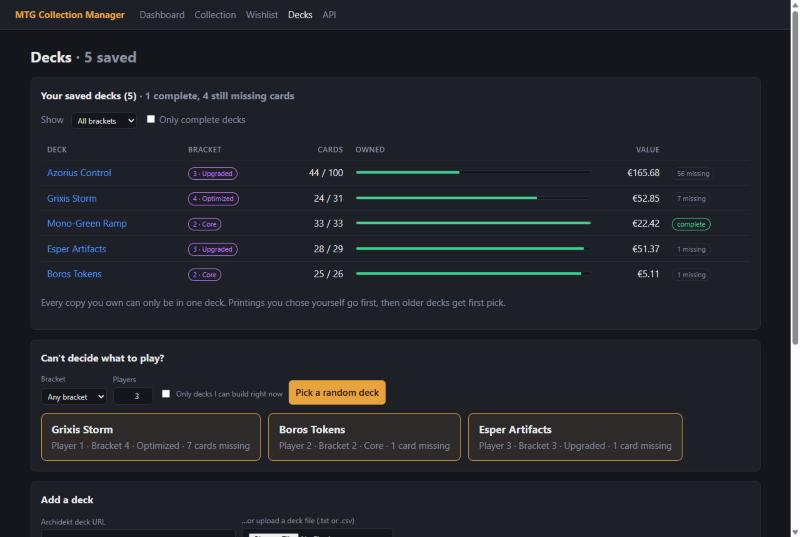
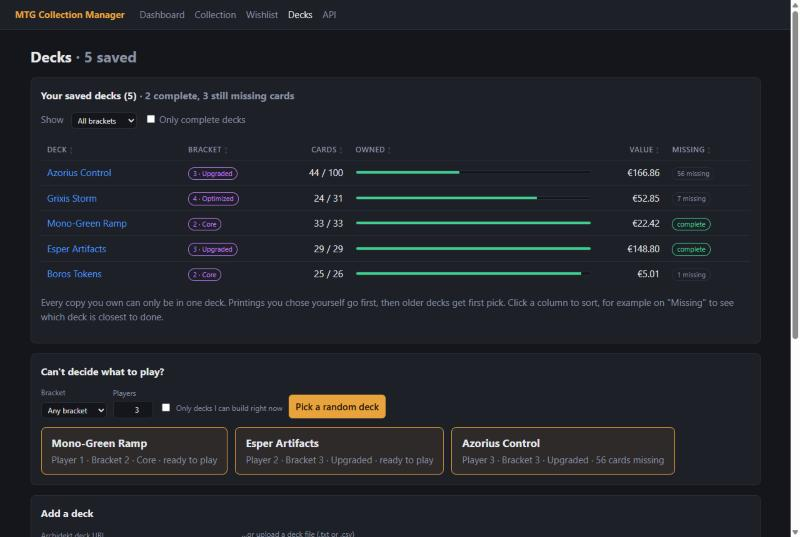
Sort the saved decks, for example on missing cards
The columns of the decks list can be clicked to sort: missing cards,
name, bracket, deck size, progress and value, in either direction. The
choice is remembered in the browser, and a link brings back the order
the decks were added in, which still decides who gets cards first.

Update the decks screenshots in the README.

diff --git a/app/templates/deck.html b/app/templates/deck.html
@@ -76,9 +76,21 @@
   </div>
   <p id="deck-filter-empty" class="muted" hidden>No decks match that filter.</p>
   <table id="deck-list">
-    <tr><th>Deck</th><th>Bracket</th><th class="num">Cards</th><th>Owned</th><th class="num">Value</th><th></th></tr>
+    <thead>
+    <tr>
+      <th><button class="sort" data-sort="name" data-type="text" title="Sort by deck name">Deck</button></th>
+      <th><button class="sort" data-sort="bracketNumber" data-type="number" title="Sort by bracket">Bracket</button></th>
+      <th class="num"><button class="sort" data-sort="cards" data-type="number" title="Sort by deck size">Cards</button></th>
+      <th><button class="sort" data-sort="percent" data-type="number" title="Sort by how much of the deck you have">Owned</button></th>
+      <th class="num"><button class="sort" data-sort="value" data-type="number" title="Sort by value">Value</button></th>
+      <th><button class="sort" data-sort="missing" data-type="number" title="Sort by how many cards the deck still misses">Missing</button></th>
+    </tr>
+    </thead>
+    <tbody>
     {% for s in summaries %}
-    <tr data-bracket="{{ s.deck.bracket if s.deck.bracket else 'none' }}" data-complete="{{ 1 if s.complete else 0 }}">
+    <tr data-bracket="{{ s.deck.bracket if s.deck.bracket else 'none' }}" data-complete="{{ 1 if s.complete else 0 }}"
+        data-order="{{ loop.index }}" data-name="{{ s.deck.name }}" data-bracket-number="{{ s.deck.bracket or '' }}"
+        data-cards="{{ s.total_cards }}" data-percent="{{ s.percent }}" data-value="{{ s.value }}" data-missing="{{ s.needed - s.usable }}">
       <td><a href="/decks/{{ s.deck.id }}">{{ s.deck.name }}</a></td>
       <td>{% if s.bracket_name %}<span class="badge bracket">{{ s.deck.bracket }} · {{ s.bracket_name }}</span>{% else %}<span class="muted">–</span>{% endif %}</td>
       <td class="num" title="Cards you have / cards in the deck, basic lands included">{{ s.total_owned }} / {{ s.total_cards }}</td>
@@ -87,8 +99,11 @@
       <td>{% if s.complete %}<span class="badge hit">complete</span>{% else %}<span class="badge">{{ s.needed - s.usable }} missing</span>{% endif %}</td>
     </tr>
     {% endfor %}
+    </tbody>
   </table>
-  <p class="muted">Every copy you own can only be in one deck. Printings you chose yourself go first, then older decks get first pick.</p>
+  <p class="muted">Every copy you own can only be in one deck. Printings you chose yourself go first, then older decks get first pick.
+    Click a column to sort, for example on "Missing" to see which deck is closest to done.
+    <button type="button" class="link" id="deck-sort-reset" hidden>Back to the order the decks were added in</button></p>
 </div>
 
 <div class="panel randomizer">
@@ -304,6 +319,50 @@
 
 {% block scripts %}
 {% if not deck and summaries %}
+<script>
+  // Sort the list of saved decks by clicking a column; a second click reverses. Remembered in this browser.
+  const deckList = document.getElementById("deck-list");
+  const deckSortButtons = [...deckList.querySelectorAll("button.sort")];
+  const deckSortReset = document.getElementById("deck-sort-reset");
+  const foldName = (text) => text.normalize("NFD").replace(/\p{M}/gu, "").toLowerCase();
+
+  function sortDecks(key, descending) {
+    const body = deckList.tBodies[0];
+    const button = deckSortButtons.find((candidate) => candidate.dataset.sort === key);
+    const rows = [...body.rows];
+    for (const other of deckSortButtons) other.closest("th").removeAttribute("aria-sort");
+    if (!button) {
+      rows.sort((a, b) => Number(a.dataset.order) - Number(b.dataset.order));  // the order they were added in
+      body.append(...rows);
+      deckSortReset.hidden = true;
+      try { localStorage.removeItem("deck-sort"); } catch (error) {}
+      return;
+    }
+    const numeric = button.dataset.type === "number";
+    const value = (row) => (numeric ? (row.dataset[key] === "" ? null : Number(row.dataset[key])) : foldName(row.dataset[key]));
+    rows.sort((a, b) => {
+      const [x, y] = [value(a), value(b)];
+      if (x === null || y === null) return (x === null) - (y === null);  // decks without a bracket last
+      const order = numeric ? x - y : x.localeCompare(y);
+      return (descending ? -order : order) || Number(a.dataset.order) - Number(b.dataset.order);
+    });
+    body.append(...rows);
+    button.closest("th").setAttribute("aria-sort", descending ? "descending" : "ascending");
+    deckSortReset.hidden = false;
+    try { localStorage.setItem("deck-sort", JSON.stringify({ key, descending })); } catch (error) {}
+  }
+
+  for (const button of deckSortButtons) {
+    button.addEventListener("click", () => {
+      sortDecks(button.dataset.sort, button.closest("th").getAttribute("aria-sort") === "ascending");
+    });
+  }
+  deckSortReset.addEventListener("click", () => sortDecks(null, false));
+  try {
+    const saved = JSON.parse(localStorage.getItem("deck-sort") || "null");
+    if (saved) sortDecks(saved.key, saved.descending);
+  } catch (error) {}
+</script>
 <script>
   // Filter the list of saved decks by bracket; the choice is remembered in this browser.
   const bracketFilter = document.getElementById("deck-bracket-filter");

diff --git a/tests/test_decks.py b/tests/test_decks.py
@@ -717,3 +717,16 @@ async def test_adding_a_basic_land_to_a_deck_counts_it_as_a_land(session, fake_s
     await add_card(session, scryfall, deck, "Forest", quantity=2)
     assert deck_left_out(session, deck).basics == {"Forest": 10}
     assert [row.name for row in saved_deck_rows(session, deck)] == ["Sol Ring"]
+
+
+def test_decks_can_be_sorted_on_missing_cards(client):
+    client.post("/api/collection", json={"name": "Sol Ring"})
+    client.post("/api/decks", json={"name": "Burn", "decklist": "4 Fire // Ice\n1 Lim-Dûl's Vault", "bracket": 4})
+    client.post("/api/decks", json={"name": "Ramp", "decklist": "1 Sol Ring\n10 Forest", "bracket": 2})
+    page = client.get("/deck").text
+    for key in ("name", "bracketNumber", "cards", "percent", "value", "missing"):
+        assert f'data-sort="{key}"' in page
+    assert 'data-order="1" data-name="Burn" data-bracket-number="4"' in page
+    assert 'data-cards="5" data-percent="0" data-value="0' in page and 'data-missing="5">' in page
+    assert 'data-order="2" data-name="Ramp"' in page and 'data-cards="11" data-percent="100" data-value="1.5" data-missing="0"' in page
+    assert page.count('id="deck-list"') == 1 and "<tbody>" in page

diff --git a/README.md b/README.md
@@ -33,6 +33,8 @@ price.
 
 ![The saved decks filtered on bracket 3: two of the five decks are left](docs/decks-filter.jpg)
 
+![The saved decks sorted on missing cards: the decks closest to done first](docs/decks-sorted.jpg)
+
 ![A saved deck of exactly 100 cards: its bracket, deck size, adding a card, and basic lands per land](docs/deck.jpg)
 
 ![The cards of a deck: the printing each card uses, a choice of printing where you own several, and Remove](docs/deck-cards.jpg)
@@ -89,6 +91,7 @@ price.
 - One "Save changes" button per deck: bracket, basic lands and chosen printings are edited freely and stored together, with a reminder while there are unsaved changes
 - Commander bracket per deck: taken from Archidekt when the deck has one, and changeable at any time
 - Filter the list of saved decks by bracket, or show only the decks that are complete
+- Sort the saved decks by how many cards they still miss, or by name, bracket, size, progress or value
 - Choose the printing: if you own a card in several printings you pick which one is in the deck (say, the foil); otherwise the cheapest free copy is used
 - Deck value: every saved deck shows what the copies in it are worth
 
